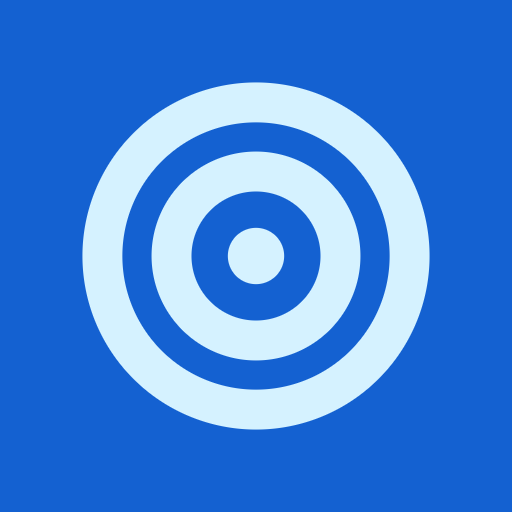
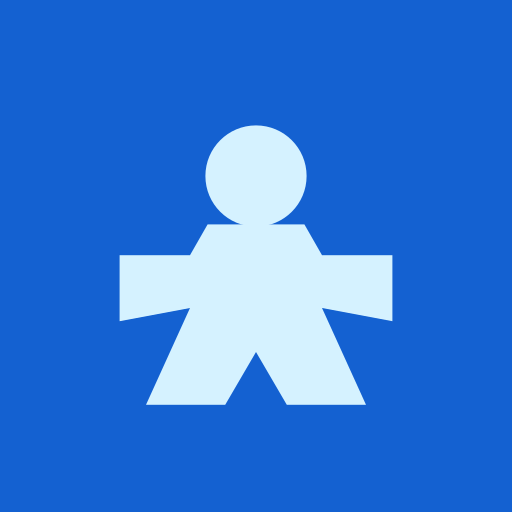
La app se llama Table Tracker y lo dice su logotipo
El nombre y los iconos son la misma pieza: la «A» de cada palabra es un
meeple y el hueco entre las dos, un dado. Va dibujado en línea en
`Logo.tsx`, con `currentColor` y el color de acento, así que hereda el
color de donde se ponga, escala con el tipo de letra del contenedor y
funciona igual en claro y en oscuro.

Lo estrenan la cabecera y la portada de acceso, y de paso el título de la
página, el manifiesto de la PWA y los iconos, que ahora llevan el mismo
meeple. El generador de iconos pasa a rasterizar ese SVG con sharp, que
ya estaba en el proyecto, en vez de dibujar la diana pixel a pixel.

Changed region(s): [[0.1562, 0.1562, 0.8438, 0.8438]]

diff --git a/src/components/Logo.tsx b/src/components/Logo.tsx
@@ -1,0 +1,106 @@
+/**
+ * El logotipo de «Table Tracker»: la marca escrita, no una imagen.
+ *
+ * Va dibujada en línea a propósito. La «A» de cada palabra es un meeple —la
+ * cabeza hace de vértice y los brazos de travesaño— y el hueco entre las dos
+ * palabras lo ocupa un dado, así que el nombre y los iconos son la misma pieza y
+ * no hay un PNG que se quede desalineado. Solo usa `currentColor` y
+ * `--color-accent`, de modo que hereda el color de donde se ponga y funciona
+ * igual en claro y en oscuro; el tamaño sale del tipo de letra del contenedor,
+ * que es lo único que hay que decidir al colocarlo.
+ */
+
+interface LogoProps {
+  /** Apilado en dos líneas para las portadas; en una sola para la cabecera. */
+  stacked?: boolean
+  className?: string
+}
+
+/** El meeple que hace de «A». Un pelo más alto que la mayúscula, como un asta. */
+function Meeple() {
+  return (
+    <svg
+      viewBox="0 0 64 64"
+      className="h-[0.84em] w-[0.86em] shrink-0 text-[var(--color-accent)]"
+      fill="currentColor"
+      aria-hidden="true"
+    >
+      <circle cx="32" cy="12" r="11.5" />
+      <path d="M21 23H43L47 30H63V45L47 42L57 64H39L32 52L25 64H7L17 42L1 45V30H17Z" />
+    </svg>
+  )
+}
+
+/** El dado que separa las dos palabras, escorado como si acabara de caer. */
+function Die() {
+  return (
+    <svg
+      viewBox="0 0 64 64"
+      className="mx-[0.16em] h-[0.74em] w-[0.74em] shrink-0 -rotate-6"
+      aria-hidden="true"
+    >
+      <rect
+        x="5"
+        y="5"
+        width="54"
+        height="54"
+        rx="11"
+        fill="none"
+        stroke="currentColor"
+        strokeWidth="7"
+      />
+      <g fill="var(--color-accent)">
+        <circle cx="19" cy="45" r="6.5" />
+        <circle cx="32" cy="32" r="6.5" />
+        <circle cx="45" cy="19" r="6.5" />
+      </g>
+    </svg>
+  )
+}
+
+export function Logo({ stacked = false, className = '' }: LogoProps) {
+  // Las letras se parten en trozos para colar los iconos donde iría su letra.
+  // Fuera del `aria-label` no hay texto que leer: suelto, «T BLE» no dice nada.
+  const table = (
+    <>
+      <span aria-hidden="true">T</span>
+      <Meeple />
+      <span aria-hidden="true">BLE</span>
+    </>
+  )
+  const tracker = (
+    <>
+      <span aria-hidden="true">TR</span>
+      <Meeple />
+      <span aria-hidden="true">CKER</span>
+    </>
+  )
+
+  if (stacked) {
+    return (
+      <span
+        role="img"
+        aria-label="Table Tracker"
+        className={`display inline-flex flex-col items-center leading-[0.92] ${className}`}
+      >
+        <span className="flex items-baseline">
+          {table}
+          <Die />
+        </span>
+        <span className="flex items-baseline">{tracker}</span>
+      </span>
+    )
+  }
+
+  return (
+    <span
+      role="img"
+      aria-label="Table Tracker"
+      className={`display inline-flex items-baseline leading-none ${className}`}
+    >
+      {table}
+      <Die />
+      {tracker}
+    </span>
+  )
+}

diff --git a/src/components/Layout.tsx b/src/components/Layout.tsx
@@ -5,6 +5,7 @@ import { useGroup } from '../context/GroupContext'
 import { isDemoMode } from '../lib/api'
 import { getStoredTheme, resolveTheme, setTheme } from '../lib/theme'
 import { Avatar } from './Avatar'
+import { Logo } from './Logo'
 
 interface Tab {
   to: string
@@ -79,12 +80,8 @@ export function Layout() {
 
       <header className="safe-top sticky top-0 z-20 border-b-2 border-[var(--color-border)] bg-[var(--color-bg)]/90 backdrop-blur">
         <div className="mx-auto flex w-full max-w-3xl items-center gap-3 px-4 py-3">
-          <Link
-            to="/"
-            className="display flex items-center gap-2 text-lg text-[var(--color-brand)]"
-          >
-            <span aria-hidden="true">🎯</span>
-            <span>Mesa</span>
+          <Link to="/" className="shrink-0 text-[var(--color-brand)]">
+            <Logo className="text-[0.95rem] sm:text-lg" />
           </Link>
 
           {group && (

diff --git a/src/pages/LoginPage.tsx b/src/pages/LoginPage.tsx
@@ -2,6 +2,7 @@ import { useState } from 'react'
 import { Navigate, useLocation, useNavigate } from 'react-router-dom'
 import { useAuth } from '../context/AuthContext'
 import { isDemoMode } from '../lib/api'
+import { Logo } from '../components/Logo'
 import { ErrorNote, Spinner } from '../components/ui'
 
 export function LoginPage() {
@@ -41,10 +42,9 @@ export function LoginPage() {
   return (
     <div className="mx-auto flex max-w-sm flex-col gap-5 pt-6">
       <div className="text-center">
-        <span className="text-4xl" aria-hidden="true">
-          🎯
-        </span>
-        <h1 className="display mt-2 text-2xl">Mesa</h1>
+        <h1 className="text-[var(--color-brand)]">
+          <Logo stacked className="text-4xl" />
+        </h1>
         <p className="mt-1 text-sm text-[var(--color-muted)]">
           Los resultados de vuestras partidas, en un sitio.
         </p>

diff --git a/vite.config.ts b/vite.config.ts
@@ -17,8 +17,8 @@ export default defineConfig({
       registerType: 'autoUpdate',
       includeAssets: ['favicon.svg', 'apple-touch-icon.png'],
       manifest: {
-        name: 'Mesa — Marcador de juegos de mesa',
-        short_name: 'Mesa',
+        name: 'Table Tracker — Marcador de juegos de mesa',
+        short_name: 'Table Tracker',
         description:
           'Registra los resultados de tus partidas, consulta el histórico con cada jugador y ten las reglas siempre a mano.',
         theme_color: '#1461d1',

diff --git a/index.html b/index.html
@@ -10,7 +10,7 @@
       name="description"
       content="Marcador de juegos de mesa: resultados, estadísticas por jugador y chuletas de reglas."
     />
-    <title>Mesa — Marcador de juegos de mesa</title>
+    <title>Table Tracker — Marcador de juegos de mesa</title>
   </head>
   <body>
     <div id="root"></div>
